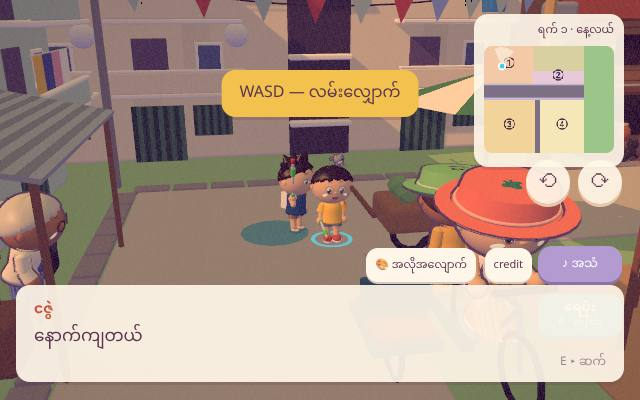
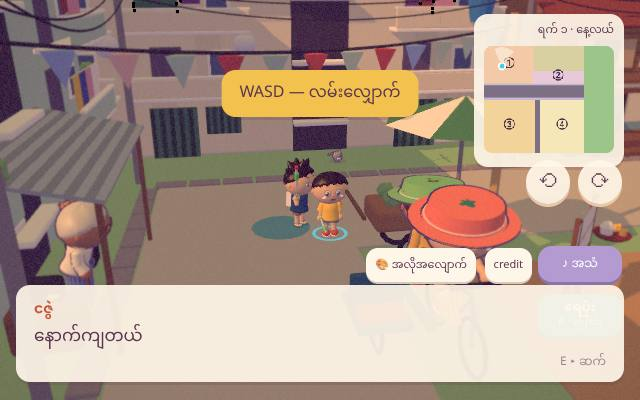
T12: results — widths ×1.5, draw calls, clearFor 2.65 s, quiet zones empty, day 1 still plays through
Claude-Session: https://claude.ai/code/session_017xuZq8H4cNKSMdBo5y4KvM

diff --git a/docs/plans/T12.md b/docs/plans/T12.md
@@ -38,5 +38,17 @@ set.js · life.js · world.js (fade hook + tune + the bake / occluder-clone chan
 - `docs/day1/check.cjs` — new game → 「ရက် ၂」 as before
 - `docs/ward/check.cjs` — lane widths measured from `ground()` (old / new) · 3 extras placed near the player, a scene starts → all > 10 m away within 3 s · no extras in the house-front zone during 1-1 / 1-2 (`docs/ward/1-2.jpg`) · a walk down the home lane at dist 6 and 11 × az 0 / 90 / 180 / 270 → screenshots in `docs/ward/` · draw calls before / after · console 0
 
-## Results
-_(pending — filled in once the checks have run)_
+## Results (code, 2026-11-07)
+`docs/ward/check.cjs` (headless Chromium, swiftshader, `dt=.1`; old = main @ cf288db):
+- **Lane widths** (measured from `ground()`): back 2.0 → **3.0** · side 2.0 → **3.0** · east 1.6 → **2.4** (all ×1.50). `BOUNDS` → x0 −11, z0 −11 (camBounds follow).
+- **Draw calls** (one render incl. shadows, `?q=off`, people hidden), before → after: home lane (door) 404 → 402 · lot 464 → 473 · street 505 → 508 · market 432 → 444. Meshes after bake 351 → 366, 27 of them near-fade furniture. bake: near-fade materials get their **own family** (`userData.near` in the fam/key), so they merge among themselves into a vc material carrying the hook and keep the 8-unit culling.
+- **clearFor**: 3 extras put down at 1.6 / 2.5 / 2.7 m, a scene starts → all > 10 m after **2.65 s** of game time (then hidden), none popped.
+- **Quiet zones**: new game 1-1 → 1-2, 144 samples, up to 54 extras on view → **none** inside a zone (home lane, east lane, gathering spot). `docs/ward/1-2.jpg`.
+- **Near-lens fade**: the home lane at dist 6 / 11 × az 0 / 90 / 180 / 270 → `docs/ward/lane-d{6,11}-az*.jpg`, with `…-nofade.jpg` at dist 6 to compare: the padauk canopy right at the lens dissolves into the dither (no popping); poles / cables go the same way. Bulbs and the additive glow are not hooked (MeshBasicMaterial). A faded pole still casts its shadow (CAMERA.md §5).
+- **Day 1**: `docs/day1/check.cjs` ONLY=day passes unchanged — new game → 「ရက် ၂ — မကြာခင်」, parts floor / cloth / speaker / lights, both goal lines, console 0.
+- console errors **0**.
+
+Not done / notes:
+- `?tune` has the two fade distances; with a big canopy close in, `nearOut 3` leaves it half dithered — the creator / Fable may prefer pushing it to ~4 (`ONLY=tuned` in the check shoots nearIn 3 / nearOut 5 for comparison).
+- FPS: not measurable here (no GPU) — Fable / the creator.
+
